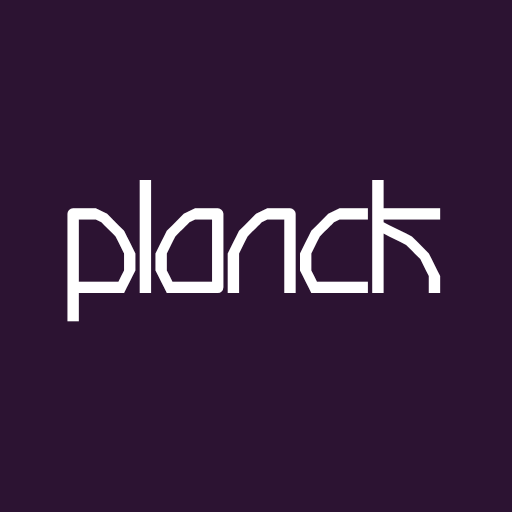
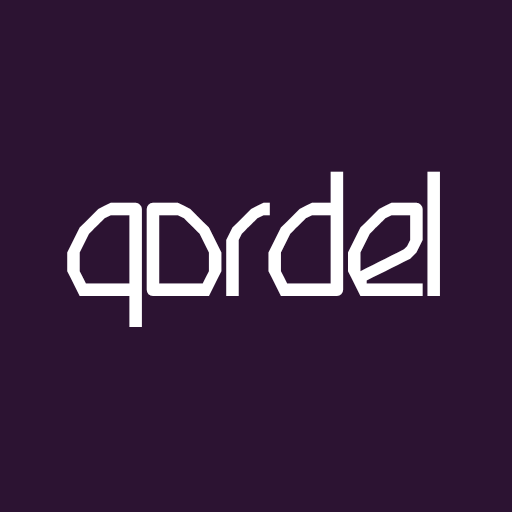
Qordel: the new name, written in Ruba Regular; the tagline on the welcome
- Name: Qordel everywhere (titles, manifest, every phone page, welcome,
  notifications, the test reminder, the tutor's prompt). 'Powered by
  OwnYourSystem' stays under it.
- Welcome: 'One step. In the right order.' and 'A planner that adjusts to
  your day and shows what matters next.' (the owner's card). The same
  line is the manifest description.
- Icons: the name in Ruba, white on Moonlit Plum; Android badge a heavier
  'q'. Cache board-v13.

Claude-Session: https://claude.ai/code/session_01557KYinyYAogRWmsupXsTG

Changed region(s): [[0.125, 0.3125, 0.875, 0.6562]]

diff --git a/index.html b/index.html
@@ -8,13 +8,13 @@
 <meta name="theme-color" content="#EFEFEC" media="(prefers-color-scheme: light)">
 <meta name="apple-mobile-web-app-capable" content="yes">
 <meta name="mobile-web-app-capable" content="yes">
-<meta name="apple-mobile-web-app-title" content="Planck">
+<meta name="apple-mobile-web-app-title" content="Qordel">
 <meta name="apple-mobile-web-app-status-bar-style" content="default">
 <link rel="manifest" href="manifest.webmanifest">
 <link rel="apple-touch-icon" href="apple-touch-icon.png">
 <link rel="icon" href="icon-192.png">
 <!--ARTIFACT-START-->
-<title>Planck</title>
+<title>Qordel</title>
 <style>
 /* latin */
 @font-face {
@@ -1296,10 +1296,10 @@ button.ph-ring::after{content:""; position:absolute; inset:-9px}
 .ph-where>span{flex:1 1 auto; min-width:0; overflow-wrap:anywhere}
 .ph-where .ph-sel{flex:0 0 auto; width:auto; max-width:52%}
 .ph-onb .ph-h2.ph-mt{margin-top:10px}
-/* ---- Planck at the top of every page (2026-10-19) ----
+/* ---- Qordel at the top of every page (2026-10-19) ----
    The logo is the name, written in Ruba Regular (floor-3013, CC BY-SA 3.0,
    credit in fonts/Ruba-Regular-LICENSE.txt), with "Powered by OwnYourSystem"
-   under it. Ruba is unicase, so it reads "planck". It has one weight.     */
+   under it. Ruba is unicase, so it reads "qordel". It has one weight.     */
 @font-face{font-family:"Ruba"; src:url("fonts/Ruba-Regular.ttf") format("truetype"); font-weight:400; font-display:swap}
 .ph-word{font-family:"Ruba",var(--font); font-synthesis:none; font-size:1.6rem; font-weight:400; letter-spacing:.01em; color:var(--ink); line-height:1}
 .ph-by{font-size:.706rem; color:var(--muted); line-height:1.2}
@@ -1570,7 +1570,7 @@ try{var _t=localStorage.getItem("oys-theme");
 
   <header class="masthead">
     <div>
-      <div class="eyebrow">Planck &middot; Live board</div>
+      <div class="eyebrow">Qordel &middot; Live board</div>
       <div class="clockline">
         <span class="dateline" id="dateline">&nbsp;</span>
         <span class="clock" id="clock">--:--:--</span>
@@ -1913,7 +1913,7 @@ try{var _t=localStorage.getItem("oys-theme");
   <div id="flashnote" role="status" aria-live="polite" hidden></div>
   <div id="botsheet" hidden>
     <div class="sheet-head">
-      <span class="ph-brand" id="ph-tbrand"><span class="ph-bt"><span class="ph-word">Planck</span><span class="ph-by">Powered by OwnYourSystem</span></span></span>
+      <span class="ph-brand" id="ph-tbrand"><span class="ph-bt"><span class="ph-word">Qordel</span><span class="ph-by">Powered by OwnYourSystem</span></span></span>
       <span class="bot-mark"><svg viewBox="0 0 24 24" fill="none" stroke="currentColor" stroke-width="1.7" stroke-linecap="round" stroke-linejoin="round" aria-hidden="true"><path d="M5.7 3.5h12.6a3.2 3.2 0 0 1 3.2 3.2v6.6a3.2 3.2 0 0 1-3.2 3.2H11.5L7.2 20.3v-3.8H5.7a3.2 3.2 0 0 1-3.2-3.2V6.7a3.2 3.2 0 0 1 3.2-3.2Z"/><path d="M8 12.8V10.4M12 12.8V8.2M16 12.8V6.6"/></svg></span>
       <span class="bot-name">Assistant</span>
       <span class="bot-tools">
@@ -6471,7 +6471,7 @@ function botSnapshot(){
   return out.join("\n");
 }
 var BOT_RULES=
-"You are the tutor built into Planck, a daily planner: patient, concrete, and on the person's side. "+
+"You are the tutor built into Qordel, a daily planner: patient, concrete, and on the person's side. "+
 "You speak only about this board: "+
 "its main tasks, subtasks, progress, status, the three lists (Today, Waiting, Done today), "+
 "and what to work on next. If asked about anything else, say in one line that you only handle this board, "+
@@ -9123,7 +9123,7 @@ function phTabsMark(r){
   });
 }
 /* the mark, the name and who made it, at the top of every page */
-var PH_BRAND_IN='<span class="ph-bt"><span class="ph-word">Planck</span><span class="ph-by">Powered by OwnYourSystem</span></span>';
+var PH_BRAND_IN='<span class="ph-bt"><span class="ph-word">Qordel</span><span class="ph-by">Powered by OwnYourSystem</span></span>';
 var PH_BRAND='<div class="ph-brand">'+PH_BRAND_IN+'</div>';
 function phRender(){
   if(!PH_ON) return;
@@ -9572,7 +9572,7 @@ function phRow(k,t,v,noChev){
 /* a reminder now, so the person sees how one looks on this phone: the same
    icon, badge and wording as the morning brief, sent from this page */
 function phTestNote(){
-  var t="A test from Planck", o={body:"Reminders come like this, at most 2 a day.", tag:"oys-test", icon:"icon-192.png", badge:"badge-96.png"};
+  var t="A test from Qordel", o={body:"Reminders come like this, at most 2 a day.", tag:"oys-test", icon:"icon-192.png", badge:"badge-96.png"};
   var sent=function(){ toast("","Sent. Look at the top of the screen."); };
   try{
     if(navigator.serviceWorker&&navigator.serviceWorker.controller){
@@ -9810,9 +9810,9 @@ function phChoice(k,list,v,label){
 }
 function phOnbHtml(){
   var v=PH_V;
-  if(PH_ONB===0) return '<div class="ph-onb"><div class="ph-bt"><div class="ph-word">Planck</div><div class="ph-by">Powered by OwnYourSystem</div></div>'+
-    '<h1 class="ph-big">One next step, every day.</h1>'+
-    '<p class="ph-lede">Planck picks today’s one task and tells you why. On a rough day it gets smaller. You always decide.</p>'+
+  if(PH_ONB===0) return '<div class="ph-onb"><div class="ph-bt"><div class="ph-word">Qordel</div><div class="ph-by">Powered by OwnYourSystem</div></div>'+
+    '<h1 class="ph-big">One step. In the right order.</h1>'+
+    '<p class="ph-lede">A planner that adjusts to your day and shows what matters next. On a rough day it gets smaller. You always decide.</p>'+
     '<div class="ph-fill"></div>'+phDotsHtml(0)+
     '<button type="button" class="ph-btn ph-pri ph-wide" data-ph="onb-next">Start</button>'+
     '<button type="button" class="ph-link ph-center" data-ph="restore">I have a board already: restore it</button></div>';

diff --git a/source/delivery-board.html b/source/delivery-board.html
@@ -8,13 +8,13 @@
 <meta name="theme-color" content="#EFEFEC" media="(prefers-color-scheme: light)">
 <meta name="apple-mobile-web-app-capable" content="yes">
 <meta name="mobile-web-app-capable" content="yes">
-<meta name="apple-mobile-web-app-title" content="Planck">
+<meta name="apple-mobile-web-app-title" content="Qordel">
 <meta name="apple-mobile-web-app-status-bar-style" content="default">
 <link rel="manifest" href="manifest.webmanifest">
 <link rel="apple-touch-icon" href="apple-touch-icon.png">
 <link rel="icon" href="icon-192.png">
 <!--ARTIFACT-START-->
-<title>Planck</title>
+<title>Qordel</title>
 <style>
 /* latin */
 @font-face {
@@ -1296,10 +1296,10 @@ button.ph-ring::after{content:""; position:absolute; inset:-9px}
 .ph-where>span{flex:1 1 auto; min-width:0; overflow-wrap:anywhere}
 .ph-where .ph-sel{flex:0 0 auto; width:auto; max-width:52%}
 .ph-onb .ph-h2.ph-mt{margin-top:10px}
-/* ---- Planck at the top of every page (2026-10-19) ----
+/* ---- Qordel at the top of every page (2026-10-19) ----
    The logo is the name, written in Ruba Regular (floor-3013, CC BY-SA 3.0,
    credit in fonts/Ruba-Regular-LICENSE.txt), with "Powered by OwnYourSystem"
-   under it. Ruba is unicase, so it reads "planck". It has one weight.     */
+   under it. Ruba is unicase, so it reads "qordel". It has one weight.     */
 @font-face{font-family:"Ruba"; src:url("fonts/Ruba-Regular.ttf") format("truetype"); font-weight:400; font-display:swap}
 .ph-word{font-family:"Ruba",var(--font); font-synthesis:none; font-size:1.6rem; font-weight:400; letter-spacing:.01em; color:var(--ink); line-height:1}
 .ph-by{font-size:.706rem; color:var(--muted); line-height:1.2}
@@ -1570,7 +1570,7 @@ try{var _t=localStorage.getItem("oys-theme");
 
   <header class="masthead">
     <div>
-      <div class="eyebrow">Planck &middot; Live board</div>
+      <div class="eyebrow">Qordel &middot; Live board</div>
       <div class="clockline">
         <span class="dateline" id="dateline">&nbsp;</span>
         <span class="clock" id="clock">--:--:--</span>
@@ -1913,7 +1913,7 @@ try{var _t=localStorage.getItem("oys-theme");
   <div id="flashnote" role="status" aria-live="polite" hidden></div>
   <div id="botsheet" hidden>
     <div class="sheet-head">
-      <span class="ph-brand" id="ph-tbrand"><span class="ph-bt"><span class="ph-word">Planck</span><span class="ph-by">Powered by OwnYourSystem</span></span></span>
+      <span class="ph-brand" id="ph-tbrand"><span class="ph-bt"><span class="ph-word">Qordel</span><span class="ph-by">Powered by OwnYourSystem</span></span></span>
       <span class="bot-mark"><svg viewBox="0 0 24 24" fill="none" stroke="currentColor" stroke-width="1.7" stroke-linecap="round" stroke-linejoin="round" aria-hidden="true"><path d="M5.7 3.5h12.6a3.2 3.2 0 0 1 3.2 3.2v6.6a3.2 3.2 0 0 1-3.2 3.2H11.5L7.2 20.3v-3.8H5.7a3.2 3.2 0 0 1-3.2-3.2V6.7a3.2 3.2 0 0 1 3.2-3.2Z"/><path d="M8 12.8V10.4M12 12.8V8.2M16 12.8V6.6"/></svg></span>
       <span class="bot-name">Assistant</span>
       <span class="bot-tools">
@@ -6471,7 +6471,7 @@ function botSnapshot(){
   return out.join("\n");
 }
 var BOT_RULES=
-"You are the tutor built into Planck, a daily planner: patient, concrete, and on the person's side. "+
+"You are the tutor built into Qordel, a daily planner: patient, concrete, and on the person's side. "+
 "You speak only about this board: "+
 "its main tasks, subtasks, progress, status, the three lists (Today, Waiting, Done today), "+
 "and what to work on next. If asked about anything else, say in one line that you only handle this board, "+
@@ -9123,7 +9123,7 @@ function phTabsMark(r){
   });
 }
 /* the mark, the name and who made it, at the top of every page */
-var PH_BRAND_IN='<span class="ph-bt"><span class="ph-word">Planck</span><span class="ph-by">Powered by OwnYourSystem</span></span>';
+var PH_BRAND_IN='<span class="ph-bt"><span class="ph-word">Qordel</span><span class="ph-by">Powered by OwnYourSystem</span></span>';
 var PH_BRAND='<div class="ph-brand">'+PH_BRAND_IN+'</div>';
 function phRender(){
   if(!PH_ON) return;
@@ -9572,7 +9572,7 @@ function phRow(k,t,v,noChev){
 /* a reminder now, so the person sees how one looks on this phone: the same
    icon, badge and wording as the morning brief, sent from this page */
 function phTestNote(){
-  var t="A test from Planck", o={body:"Reminders come like this, at most 2 a day.", tag:"oys-test", icon:"icon-192.png", badge:"badge-96.png"};
+  var t="A test from Qordel", o={body:"Reminders come like this, at most 2 a day.", tag:"oys-test", icon:"icon-192.png", badge:"badge-96.png"};
   var sent=function(){ toast("","Sent. Look at the top of the screen."); };
   try{
     if(navigator.serviceWorker&&navigator.serviceWorker.controller){
@@ -9810,9 +9810,9 @@ function phChoice(k,list,v,label){
 }
 function phOnbHtml(){
   var v=PH_V;
-  if(PH_ONB===0) return '<div class="ph-onb"><div class="ph-bt"><div class="ph-word">Planck</div><div class="ph-by">Powered by OwnYourSystem</div></div>'+
-    '<h1 class="ph-big">One next step, every day.</h1>'+
-    '<p class="ph-lede">Planck picks today’s one task and tells you why. On a rough day it gets smaller. You always decide.</p>'+
+  if(PH_ONB===0) return '<div class="ph-onb"><div class="ph-bt"><div class="ph-word">Qordel</div><div class="ph-by">Powered by OwnYourSystem</div></div>'+
+    '<h1 class="ph-big">One step. In the right order.</h1>'+
+    '<p class="ph-lede">A planner that adjusts to your day and shows what matters next. On a rough day it gets smaller. You always decide.</p>'+
     '<div class="ph-fill"></div>'+phDotsHtml(0)+
     '<button type="button" class="ph-btn ph-pri ph-wide" data-ph="onb-next">Start</button>'+
     '<button type="button" class="ph-link ph-center" data-ph="restore">I have a board already: restore it</button></div>';

diff --git a/source/head.html b/source/head.html
@@ -8,13 +8,13 @@
 <meta name="theme-color" content="#EFEFEC" media="(prefers-color-scheme: light)">
 <meta name="apple-mobile-web-app-capable" content="yes">
 <meta name="mobile-web-app-capable" content="yes">
-<meta name="apple-mobile-web-app-title" content="Planck">
+<meta name="apple-mobile-web-app-title" content="Qordel">
 <meta name="apple-mobile-web-app-status-bar-style" content="default">
 <link rel="manifest" href="manifest.webmanifest">
 <link rel="apple-touch-icon" href="apple-touch-icon.png">
 <link rel="icon" href="icon-192.png">
 <!--ARTIFACT-START-->
-<title>Planck</title>
+<title>Qordel</title>
 <style>
 /* latin */
 @font-face {
@@ -1296,10 +1296,10 @@ button.ph-ring::after{content:""; position:absolute; inset:-9px}
 .ph-where>span{flex:1 1 auto; min-width:0; overflow-wrap:anywhere}
 .ph-where .ph-sel{flex:0 0 auto; width:auto; max-width:52%}
 .ph-onb .ph-h2.ph-mt{margin-top:10px}
-/* ---- Planck at the top of every page (2026-10-19) ----
+/* ---- Qordel at the top of every page (2026-10-19) ----
    The logo is the name, written in Ruba Regular (floor-3013, CC BY-SA 3.0,
    credit in fonts/Ruba-Regular-LICENSE.txt), with "Powered by OwnYourSystem"
-   under it. Ruba is unicase, so it reads "planck". It has one weight.     */
+   under it. Ruba is unicase, so it reads "qordel". It has one weight.     */
 @font-face{font-family:"Ruba"; src:url("fonts/Ruba-Regular.ttf") format("truetype"); font-weight:400; font-display:swap}
 .ph-word{font-family:"Ruba",var(--font); font-synthesis:none; font-size:1.6rem; font-weight:400; letter-spacing:.01em; color:var(--ink); line-height:1}
 .ph-by{font-size:.706rem; color:var(--muted); line-height:1.2}
@@ -1570,7 +1570,7 @@ try{var _t=localStorage.getItem("oys-theme");
 
   <header class="masthead">
     <div>
-      <div class="eyebrow">Planck &middot; Live board</div>
+      <div class="eyebrow">Qordel &middot; Live board</div>
       <div class="clockline">
         <span class="dateline" id="dateline">&nbsp;</span>
         <span class="clock" id="clock">--:--:--</span>
@@ -1913,7 +1913,7 @@ try{var _t=localStorage.getItem("oys-theme");
   <div id="flashnote" role="status" aria-live="polite" hidden></div>
   <div id="botsheet" hidden>
     <div class="sheet-head">
-      <span class="ph-brand" id="ph-tbrand"><span class="ph-bt"><span class="ph-word">Planck</span><span class="ph-by">Powered by OwnYourSystem</span></span></span>
+      <span class="ph-brand" id="ph-tbrand"><span class="ph-bt"><span class="ph-word">Qordel</span><span class="ph-by">Powered by OwnYourSystem</span></span></span>
       <span class="bot-mark"><svg viewBox="0 0 24 24" fill="none" stroke="currentColor" stroke-width="1.7" stroke-linecap="round" stroke-linejoin="round" aria-hidden="true"><path d="M5.7 3.5h12.6a3.2 3.2 0 0 1 3.2 3.2v6.6a3.2 3.2 0 0 1-3.2 3.2H11.5L7.2 20.3v-3.8H5.7a3.2 3.2 0 0 1-3.2-3.2V6.7a3.2 3.2 0 0 1 3.2-3.2Z"/><path d="M8 12.8V10.4M12 12.8V8.2M16 12.8V6.6"/></svg></span>
       <span class="bot-name">Assistant</span>
       <span class="bot-tools">

diff --git a/source/parts/595-the-phone.js b/source/parts/595-the-phone.js
@@ -160,7 +160,7 @@ function phTabsMark(r){
   });
 }
 /* the mark, the name and who made it, at the top of every page */
-var PH_BRAND_IN='<span class="ph-bt"><span class="ph-word">Planck</span><span class="ph-by">Powered by OwnYourSystem</span></span>';
+var PH_BRAND_IN='<span class="ph-bt"><span class="ph-word">Qordel</span><span class="ph-by">Powered by OwnYourSystem</span></span>';
 var PH_BRAND='<div class="ph-brand">'+PH_BRAND_IN+'</div>';
 function phRender(){
   if(!PH_ON) return;
@@ -609,7 +609,7 @@ function phRow(k,t,v,noChev){
 /* a reminder now, so the person sees how one looks on this phone: the same
    icon, badge and wording as the morning brief, sent from this page */
 function phTestNote(){
-  var t="A test from Planck", o={body:"Reminders come like this, at most 2 a day.", tag:"oys-test", icon:"icon-192.png", badge:"badge-96.png"};
+  var t="A test from Qordel", o={body:"Reminders come like this, at most 2 a day.", tag:"oys-test", icon:"icon-192.png", badge:"badge-96.png"};
   var sent=function(){ toast("","Sent. Look at the top of the screen."); };
   try{
     if(navigator.serviceWorker&&navigator.serviceWorker.controller){
@@ -847,9 +847,9 @@ function phChoice(k,list,v,label){
 }
 function phOnbHtml(){
   var v=PH_V;
-  if(PH_ONB===0) return '<div class="ph-onb"><div class="ph-bt"><div class="ph-word">Planck</div><div class="ph-by">Powered by OwnYourSystem</div></div>'+
-    '<h1 class="ph-big">One next step, every day.</h1>'+
-    '<p class="ph-lede">Planck picks today’s one task and tells you why. On a rough day it gets smaller. You always decide.</p>'+
+  if(PH_ONB===0) return '<div class="ph-onb"><div class="ph-bt"><div class="ph-word">Qordel</div><div class="ph-by">Powered by OwnYourSystem</div></div>'+
+    '<h1 class="ph-big">One step. In the right order.</h1>'+
+    '<p class="ph-lede">A planner that adjusts to your day and shows what matters next. On a rough day it gets smaller. You always decide.</p>'+
     '<div class="ph-fill"></div>'+phDotsHtml(0)+
     '<button type="button" class="ph-btn ph-pri ph-wide" data-ph="onb-next">Start</button>'+
     '<button type="button" class="ph-link ph-center" data-ph="restore">I have a board already: restore it</button></div>';

diff --git a/sw.js b/sw.js
@@ -1,6 +1,6 @@
 /* The board is one file, so the cache is one file plus its icons. It opens
    offline from the home screen, and picks up a new build in the background. */
-var CACHE = "board-v12";
+var CACHE = "board-v13";
 var DIGEST = "board-digest";   /* the page leaves a short summary here for the push handler; it is never cleaned away */
 var SHELL = ["./", "./index.html", "./manifest.webmanifest",
              "./icon-192.png", "./icon-512.png", "./icon-maskable-512.png", "./apple-touch-icon.png", "./badge-96.png", "./fonts/Ruba-Regular.ttf"];
@@ -60,15 +60,15 @@ function compose(kind, dg){
   var fresh = dg && dg.d === localDay();
   if(kind === "am"){
     if(fresh && dg.am) return {tag:"oys-brief", t:clip("Today: " + dg.am.t, 40), b:clip(dg.am.b, 120)};
-    return {tag:"oys-brief", t:"A new day", b:"Open Planck to see what fits today."};
+    return {tag:"oys-brief", t:"A new day", b:"Open Qordel to see what fits today."};
   }
   if(kind === "pm"){
     if(fresh) return dg.nOpen > 0
       ? {tag:"oys-today", t:"Still open", b:clip(dg.nOpen + " still open: " + (dg.open || []).join(", "), 120)}
       : {tag:"oys-today", t:"Today is clear", b:"Nothing is open in Today."};
-    return {tag:"oys-today", t:"Check in", b:"Open Planck to see what is left today."};
+    return {tag:"oys-today", t:"Check in", b:"Open Qordel to see what is left today."};
   }
-  return {tag:"oys-brief", t:"Reminder", b:"Open Planck to see today."};
+  return {tag:"oys-brief", t:"Reminder", b:"Open Qordel to see today."};
 }
 /* A reminder stays until the person closes it (requireInteraction). It never holds the board:
    the owner asked for reminders that wait, not ones that interrupt (2026-10-15). */

diff --git a/api/tutor.js b/api/tutor.js
@@ -49,7 +49,7 @@ const MAX_TOKENS = 8000;          /* thinking counts against this; answers stay 
 /* Frozen for the life of a conversation: any change here restarts the cache
    and invalidates the model's signed reasoning. Edit it deliberately.      */
 export const SYSTEM =
-"You are the tutor built into Planck, a daily planner: patient, concrete, and on the person's side. " +
+"You are the tutor built into Qordel, a daily planner: patient, concrete, and on the person's side. " +
 "You speak only about this board and the person's own history on it: its main tasks, subtasks, progress, status, " +
 "the three docks (One Task A Day, Today's Plan, Done Today), and what to work on next. If asked about anything else, " +
 "say in one line that you only handle this board, and stop. You have no web access and no source of facts except the " +

diff --git a/source/parts/440-board-assistant.js b/source/parts/440-board-assistant.js
@@ -53,7 +53,7 @@ function botSnapshot(){
   return out.join("\n");
 }
 var BOT_RULES=
-"You are the tutor built into Planck, a daily planner: patient, concrete, and on the person's side. "+
+"You are the tutor built into Qordel, a daily planner: patient, concrete, and on the person's side. "+
 "You speak only about this board: "+
 "its main tasks, subtasks, progress, status, the three lists (Today, Waiting, Done today), "+
 "and what to work on next. If asked about anything else, say in one line that you only handle this board, "+

diff --git a/.claude/skills/minimum-deliveries-ui/SKILL.md b/.claude/skills/minimum-deliveries-ui/SKILL.md
@@ -116,11 +116,11 @@ and segments that are on, the done ring. Tabs, Back, the clock, charts, labels
 and chat bubbles use the text colours, never `--ph-pri`. Red is for danger
 only. Keep text at 4.5:1 on every surface.
 
-**Brand: Planck, powered by OwnYourSystem.** The logo is the name written in
+**Brand: Qordel, powered by OwnYourSystem.** The logo is the name written in
 Ruba Regular (`fonts/Ruba-Regular.ttf`, CC BY-SA 3.0, credit kept next to it;
-unicase, so it reads "planck"). Every phone page starts with `.ph-brand`: the
+unicase, so it reads "qordel"). Every phone page starts with `.ph-brand`: the
 name and "Powered by OwnYourSystem" in small muted text. App icons are the
-name in white on Moonlit Plum; the Android badge is the "p". The phone has no
+name in white on Moonlit Plum; the Android badge is the "q". Tagline: "One step. In the right order." The phone has no
 Classic view; `oys-classic=test` is a test-suite switch only.
 
 **Phone type and surfaces (2026-10-17, HIG review).** Size phone text in rem:
